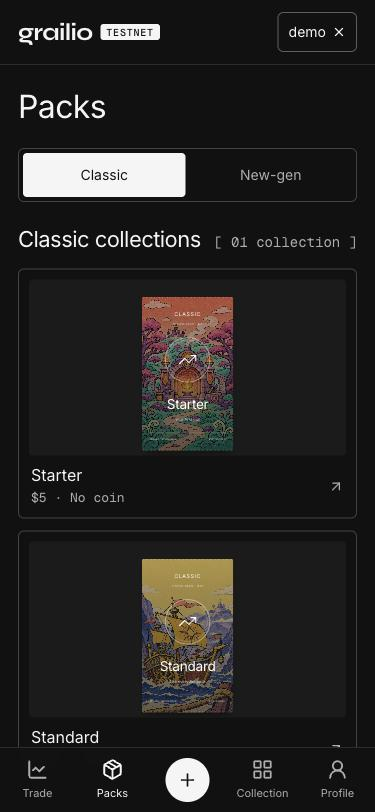
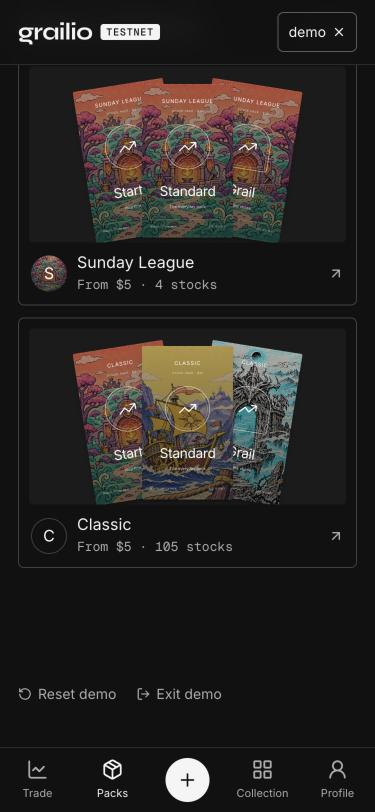
Show classic collections in the same card style as new-gen

diff --git a/src/components/pack-market.tsx b/src/components/pack-market.tsx
@@ -5,7 +5,7 @@ import { useSearchParams } from "next/navigation";
 import { useMemo, useState } from "react";
 import { ArrowUpRight, Search } from "lucide-react";
 import { SealedPack } from "@/components/pack-shop";
-import { CLASSIC_SIZES, ClassicPack, lineOf } from "@/components/classic-pack-shop";
+import { ClassicPack, lineOf } from "@/components/classic-pack-shop";
 import { cleanChip, cleanField, cn } from "@/components/clean-ui";
 import type { MarketCoin } from "@/lib/market";
 import { useMarketCoins } from "@/lib/published-packs";
@@ -17,8 +17,8 @@ import { usd } from "@/lib/format";
  * Pack marketplace: a Classic | New-gen selector at the top (kept in the URL as ?tab=classic; New-gen is the default),
  * and the selected collection's grid of compact cards (1 column on phones, 2 from 481px, 3 from 801px,
  * 4 from 1201px):
- *  - Classic collections: packs not backed by a coin. The built-in line, one card per size (/app/packs/classic?size=),
- *    then each classic collection published from Launch (config.kind === "classic"), opening /app/packs/<slug>.
+ *  - Classic collections: packs not backed by a coin, in the same card style as New-gen. Collections published from
+ *    Launch (config.kind === "classic", newest first, opening /app/packs/<slug>), then the built-in line (/app/packs/classic).
  *  - New-gen collections: coin-backed packs, one card per coin (its packs fanned, avatar, name, pool or presale,
  *    launchpad), opening /app/packs/<coin>. Sort and search apply here.
  * Graily's look: section titles and bracketed labels, hairline borders, outlined chips.
@@ -123,19 +123,34 @@ function SectionTitle({ id, title, n, noun }: { id: string; title: string; n: nu
   );
 }
 
-/** A classic collection published from Launch (no coin): its packs fanned, name and pack count. */
-function ClassicCollectionCard({ coin }: { coin: MarketCoin }) {
+/** A classic collection (no coin), styled like a coin card: its packs fanned, avatar, name, price and stock count.
+ *  Without `coin` it's the built-in Classic line. */
+function ClassicCollectionCard({ coin }: { coin?: MarketCoin }) {
   const line = lineOf(coin);
   const sizes = line.sizes.slice(0, 3);
+  const custom = customPack(coin?.config);
+  const from = usd(Math.min(...line.sizes.map((s) => s.price)), 0);
+  const href = coin ? `/app/packs/${coin.slug}` : "/app/packs/classic";
   return (
     <li className="min-w-0">
-      <Link href={`/app/packs/${coin.slug}`} className={card} aria-label={`${coin.name} packs`}>
+      <Link href={href} className={card} aria-label={`${line.name} packs`}>
         <div className={stage} aria-hidden="true">
           {sizes.map((s, i) => (
             <Sleeve key={s.id} i={i} n={sizes.length}><ClassicPack size={s} coin={coin} className="h-full justify-between shadow-none" /></Sleeve>
           ))}
         </div>
-        <CardFoot title={coin.name} meta={`${line.sizes.length} ${line.sizes.length === 1 ? "pack" : "packs"} · from ${usd(Math.min(...line.sizes.map((s) => s.price)), 0)} · No coin`} />
+        <CardFoot
+          title={line.name}
+          meta={`From ${from} · ${line.basket.length} ${line.basket.length === 1 ? "stock" : "stocks"}`}
+          avatar={
+            <span className="grid size-9 shrink-0 place-items-center overflow-hidden rounded-full text-base text-[#fff]" style={coin ? custom?.style ?? { background: coin.tone } : { background: "#111", boxShadow: "inset 0 0 0 1px #fff3" }} aria-hidden="true">
+              {coin?.config.image ? (
+                // eslint-disable-next-line @next/next/no-img-element -- small data URL saved with the collection
+                <img src={coin.config.image} alt="" className="size-full object-cover" />
+              ) : line.name[0]}
+            </span>
+          }
+        />
       </Link>
     </li>
   );
@@ -148,16 +163,7 @@ function ClassicSection({ published }: { published: MarketCoin[] }) {
       <SectionTitle id="classic-title" title="Classic collections" n={total} noun={total === 1 ? "collection" : "collections"} />
       <ul className={grid}>
         {[...published].reverse().map((c) => <ClassicCollectionCard key={c.slug} coin={c} />)}
-        {CLASSIC_SIZES.map((s) => (
-          <li key={s.id} className="min-w-0">
-            <Link href={`/app/packs/classic?size=${s.id}`} className={card} aria-label={`Classic ${s.name} pack, ${usd(s.price, 0)}`}>
-              <div className={stage} aria-hidden="true">
-                <Sleeve i={0} n={1}><ClassicPack size={s} className="h-full justify-between shadow-none" /></Sleeve>
-              </div>
-              <CardFoot title={s.name} meta={`${usd(s.price, 0)} · No coin`} />
-            </Link>
-          </li>
-        ))}
+        <ClassicCollectionCard />
       </ul>
     </section>
   );

diff --git a/docs/walkthrough/README.md b/docs/walkthrough/README.md
@@ -89,7 +89,7 @@ The **NFTs** tab is a card marketplace: list your cards or buy someone else's.
 | | |
 |---|---|
 | <img src="29-packs-newgen.jpg" width="260"> | **New-gen.** Coin-backed collections, sorted by trending, newest or pool size. |
-| <img src="30-packs-classic.jpg" width="260"> | **Classic.** Packs with no coin: the platform's own line in three sizes. |
+| <img src="30-packs-classic.jpg" width="260"> | **Classic.** Collections with no coin, in the same card style: the built-in Classic line draws from all 105 stocks. |
 | <img src="31-classic-shop.jpg" width="260"> | **Classic shop.** Draws from all 105 stocks. Same tiers: Low, Medium, High. |
 | <img src="32-classic-reveal.jpg" width="260"> | **Reveal.** A Common holding $4.75 of GLW. |
 
